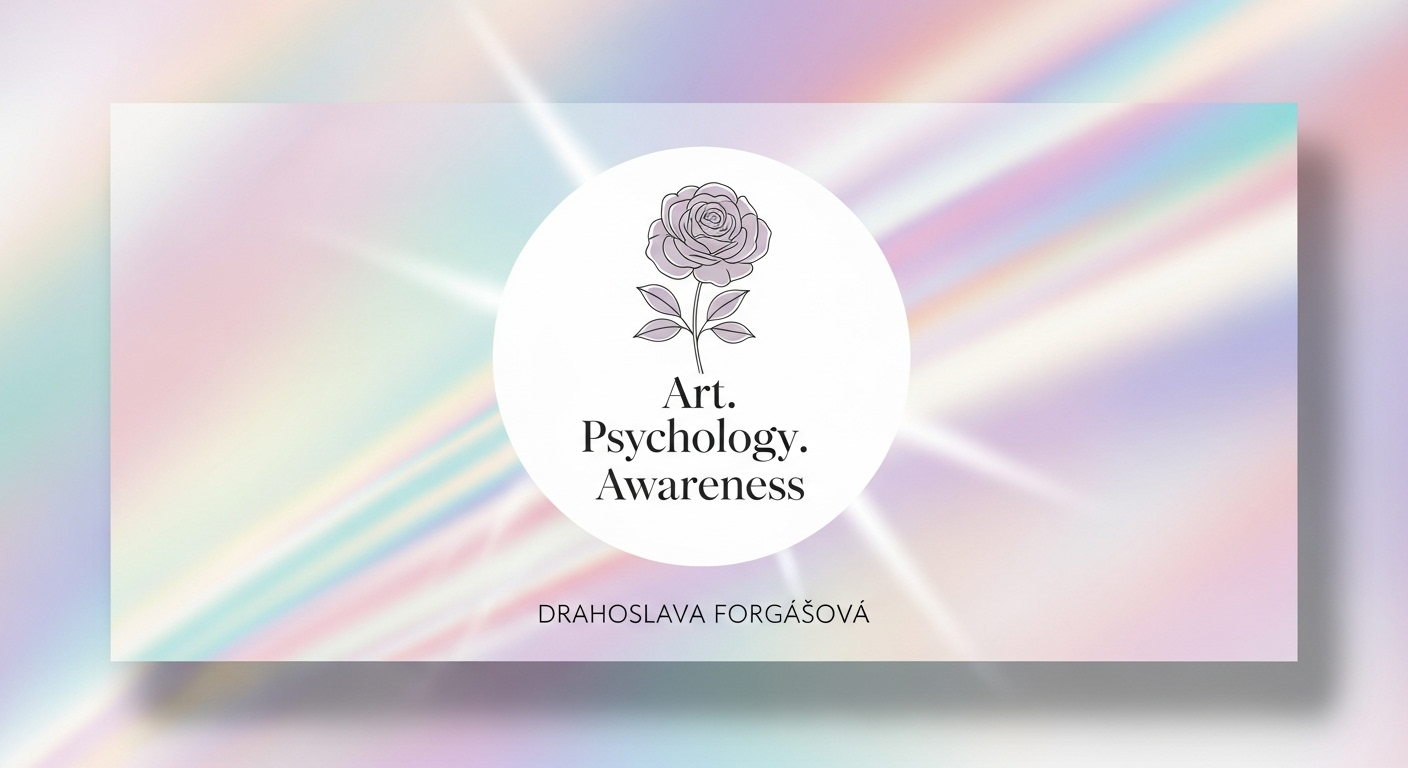
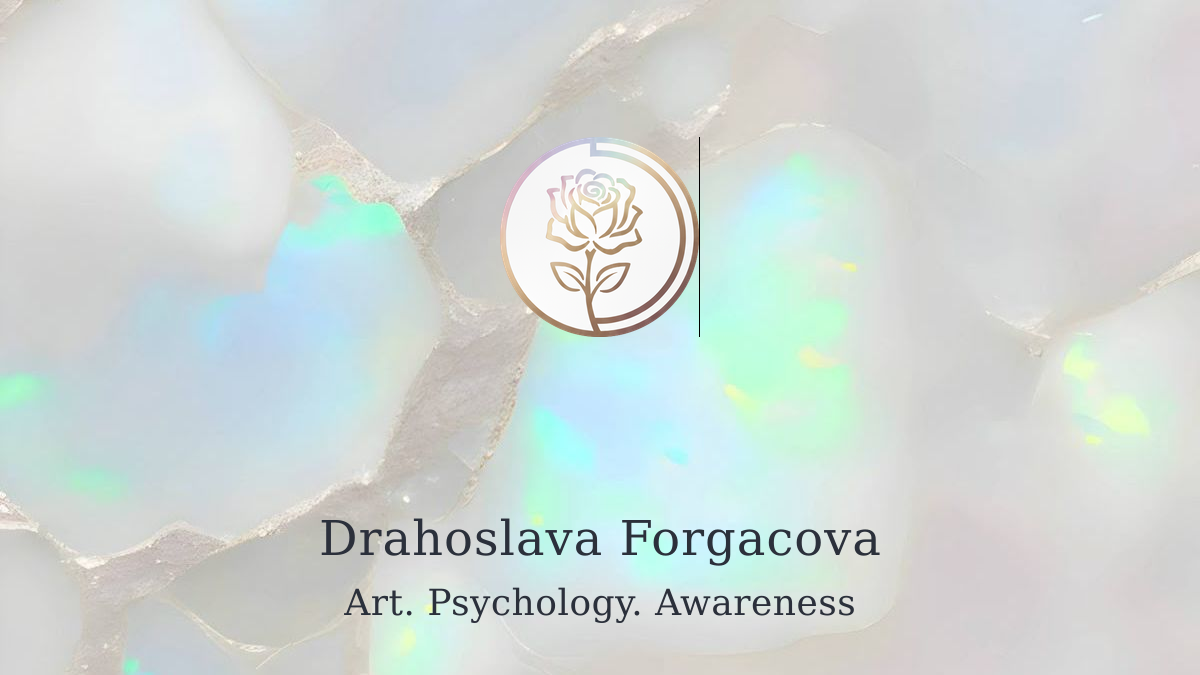
Generate social media preview image for website
Add a script to create an Open Graph image using sharp, composing a background, logo, and text overlay with custom fonts.

Replit-Commit-Author: Agent
Replit-Commit-Session-Id: 189535ba-dbb8-41d2-ab02-0f815b663b8a
Replit-Commit-Checkpoint-Type: intermediate_checkpoint
Replit-Commit-Screenshot-Url: https://storage.googleapis.com/screenshot-production-us-central1/18ad5194-8a69-4c83-8a1d-ffd3545dc970/189535ba-dbb8-41d2-ab02-0f815b663b8a/KehKA5T

diff --git a/scripts/create-og-image.js b/scripts/create-og-image.js
@@ -1,0 +1,75 @@
+import sharp from 'sharp';
+import { readFileSync } from 'fs';
+
+async function createOGImage() {
+  const targetWidth = 1200;
+  const targetHeight = 675;
+
+  // Load and prepare background
+  const background = await sharp('attached_assets/cfbb6cd9f6a1cfce3c81c411a4c761d0_1761725910852.jpg')
+    .resize(targetWidth, targetHeight, { fit: 'cover', position: 'center' })
+    .toBuffer();
+
+  // Load logo and resize it
+  const logo = await sharp('attached_assets/LOGO_1761725967909.png')
+    .resize(200, 200, { fit: 'contain' })
+    .toBuffer();
+
+  // Create SVG text overlay
+  const textSvg = `
+    <svg width="${targetWidth}" height="${targetHeight}">
+      <defs>
+        <style>
+          @import url('https://fonts.googleapis.com/css2?family=Cormorant+Garamond:wght@300;400;500;600&amp;display=swap');
+          .name { 
+            font-family: 'Cormorant Garamond', serif; 
+            font-size: 48px; 
+            font-weight: 400;
+            fill: #2B303B;
+            letter-spacing: 1px;
+          }
+          .tagline { 
+            font-family: 'Cormorant Garamond', serif; 
+            font-size: 36px; 
+            font-weight: 300;
+            fill: #2B303B;
+            letter-spacing: 0.5px;
+          }
+        </style>
+      </defs>
+      
+      <!-- Name -->
+      <text x="${targetWidth / 2}" y="${targetHeight - 120}" text-anchor="middle" class="name">
+        Drahoslava Forgacova
+      </text>
+      
+      <!-- Tagline -->
+      <text x="${targetWidth / 2}" y="${targetHeight - 60}" text-anchor="middle" class="tagline">
+        Art. Psychology. Awareness
+      </text>
+    </svg>
+  `;
+
+  // Composite all layers
+  const finalImage = await sharp(background)
+    .composite([
+      {
+        input: logo,
+        top: Math.floor((targetHeight - 400) / 2),
+        left: Math.floor((targetWidth - 200) / 2)
+      },
+      {
+        input: Buffer.from(textSvg),
+        top: 0,
+        left: 0
+      }
+    ])
+    .png()
+    .toFile('client/public/og-image.png');
+
+  console.log('✅ OG image created successfully!');
+  console.log(`   Size: ${Math.round(finalImage.size / 1024)}KB`);
+  console.log(`   Dimensions: ${finalImage.width}x${finalImage.height}`);
+}
+
+createOGImage().catch(console.error);
